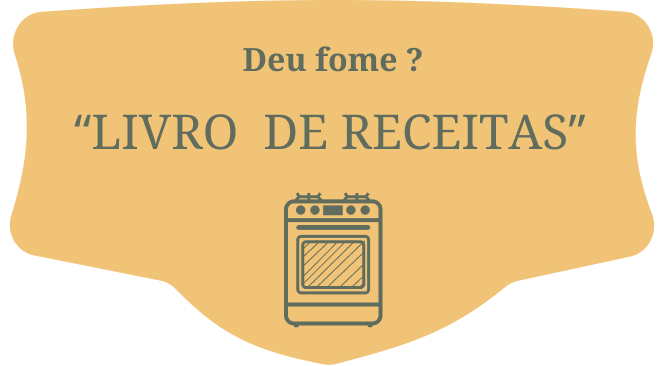
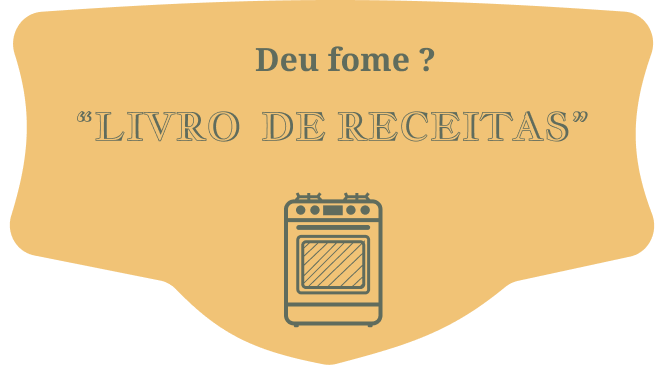
melhorias no header

Changed region(s): [[0.3898, 0.3005, 0.8996, 0.4208], [0.09, 0.3005, 0.3598, 0.4208], [0.3598, 0.1202, 0.6597, 0.2104]]

diff --git a/src/componente/header/index.jsx b/src/componente/header/index.jsx
@@ -14,21 +14,25 @@ const Banner = styled.header`
   }
 `;
 
-const Imagem = styled.img`
+const Imagem = styled.div`
   width: 667px;
   height: 365.548px;
   flex-shrink: 0;
+  background: url('/header-emblema.png');
+
 
   @media (max-width: 431px){
     width: 350px;
     height: 192px;
+    background: url('/header-mobile.png');
+
   }
 `;
 
 const Header = () => {
   return (
     <Banner>
-      <Imagem src="/header-mobile.png" alt="logo do nosso site" />
+      <Imagem ></Imagem>
     </Banner>
   );
 };
